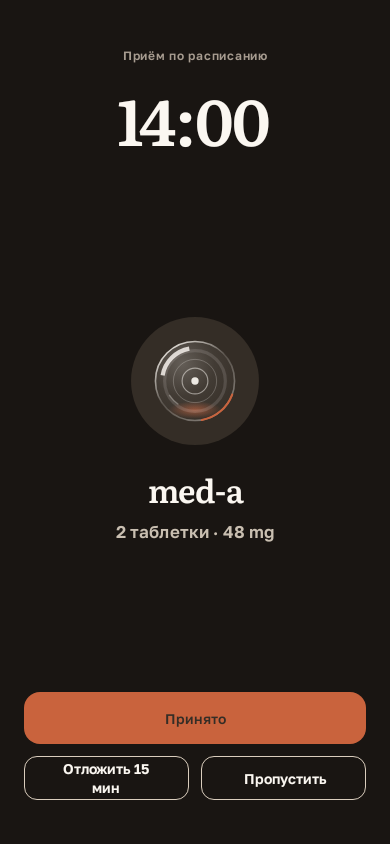
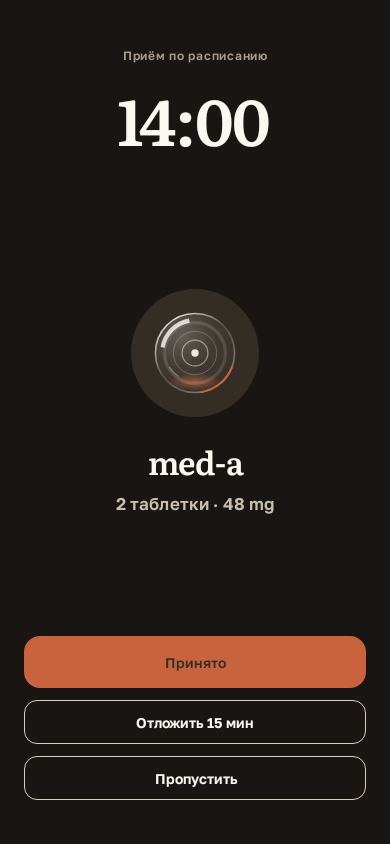
fix(SKL-61): stack the reminder actions instead of wrapping their labels

Changed region(s): [[0.0615, 0.7393, 0.9538, 0.955], [0.3077, 0.3389, 0.7077, 0.6469]]

diff --git a/feature-reminder/src/testDebug/kotlin/ru/stohastika/sklyanka/feature/reminder/ReminderScreenTest.kt b/feature-reminder/src/testDebug/kotlin/ru/stohastika/sklyanka/feature/reminder/ReminderScreenTest.kt
@@ -1,5 +1,7 @@
 package ru.stohastika.sklyanka.feature.reminder
 
+import androidx.compose.runtime.CompositionLocalProvider
+import androidx.compose.ui.platform.LocalDensity
 import androidx.compose.ui.test.assertCountEquals
 import androidx.compose.ui.test.assertIsDisplayed
 import androidx.compose.ui.test.junit4.createComposeRule
@@ -7,8 +9,10 @@ import androidx.compose.ui.test.onAllNodesWithTag
 import androidx.compose.ui.test.onNodeWithTag
 import androidx.compose.ui.test.onNodeWithText
 import androidx.compose.ui.test.performClick
+import androidx.compose.ui.unit.Density
 import androidx.test.ext.junit.runners.AndroidJUnit4
 import org.junit.Assert.assertEquals
+import org.junit.Assert.assertTrue
 import org.junit.Rule
 import org.junit.Test
 import org.junit.runner.RunWith
@@ -50,19 +54,24 @@ class ReminderScreenTest {
             foreignProfileName = null,
         )
 
-    private fun show(state: ReminderUiState.Card, onSnooze: () -> Unit = {}) {
+    private fun show(state: ReminderUiState.Card, fontScale: Float = 1f, onSnooze: () -> Unit = {}) {
         compose.setContent {
-            SklyankaTheme(dark = true) {
-                ReminderScreen(
-                    state = state,
-                    actions = ReminderActions(
-                        onTaken = {},
-                        onSkipped = {},
-                        onTakenAll = {},
-                        onSkippedAll = {},
-                        onSnooze = onSnooze,
-                    ),
-                )
+            val base = LocalDensity.current
+            CompositionLocalProvider(
+                LocalDensity provides Density(density = base.density, fontScale = fontScale),
+            ) {
+                SklyankaTheme(dark = true) {
+                    ReminderScreen(
+                        state = state,
+                        actions = ReminderActions(
+                            onTaken = {},
+                            onSkipped = {},
+                            onTakenAll = {},
+                            onSkippedAll = {},
+                            onSnooze = onSnooze,
+                        ),
+                    )
+                }
             }
         }
     }
@@ -118,6 +127,53 @@ class ReminderScreenTest {
         assertEquals(1, clicks)
     }
 
+    /**
+     * Подписи действий не переносятся и не перекрываются независимо от раскладки:
+     * помещаются рядом — стоят рядом, не помещаются — встают друг под друга.
+     *
+     * На ширине 390 dp «Отложить 15 мин» не помещается в половину строки и до задачи
+     * переносилась на две строки — это и был дефект пилота.
+     */
+    @Test
+    fun theActionsNeverWrapTheirLabelsAtTheNormalFont() {
+        show(state())
+
+        val snooze = compose.onNodeWithTag(TAG_ACTION_SNOOZE).fetchSemanticsNode().boundsInRoot
+        val skip = compose.onNodeWithTag(TAG_ACTION_SKIP).fetchSemanticsNode().boundsInRoot
+        assertTrue("подпись откладывания переносится: $snooze", snooze.height <= MAX_ONE_LINE_HEIGHT)
+        assertTrue("подпись пропуска переносится: $skip", skip.height <= MAX_ONE_LINE_HEIGHT)
+        assertTrue(
+            "кнопки перекрываются: $snooze, $skip",
+            skip.top >= snooze.bottom || skip.left >= snooze.right,
+        )
+    }
+
+    /**
+     * При крупном шрифте кнопки встают друг под друга во всю ширину, и подпись
+     * не переносится (SKL-61, §6.3). Ряд, сжатый до половин, разрывал «Отложить 15 мин».
+     */
+    @Test
+    fun atOneHundredThirtyPercentTheActionsStackInsteadOfWrapping() {
+        show(state(), fontScale = SCALE_130)
+
+        assertStackedWithoutWrappedLabels()
+    }
+
+    @Test
+    fun atTwoHundredPercentTheActionsStackInsteadOfWrapping() {
+        show(state(), fontScale = SCALE_200)
+
+        assertStackedWithoutWrappedLabels()
+    }
+
+    private fun assertStackedWithoutWrappedLabels() {
+        val snooze = compose.onNodeWithTag(TAG_ACTION_SNOOZE).fetchSemanticsNode().boundsInRoot
+        val skip = compose.onNodeWithTag(TAG_ACTION_SKIP).fetchSemanticsNode().boundsInRoot
+        assertTrue("кнопка пропуска не под откладыванием: $snooze, $skip", skip.top >= snooze.bottom)
+        assertTrue("подпись откладывания переносится: $snooze", snooze.height <= MAX_ONE_LINE_HEIGHT)
+        assertTrue("подпись пропуска переносится: $skip", skip.height <= MAX_ONE_LINE_HEIGHT)
+    }
+
     @Test
     fun twoIntakesOnOneTimeAreShownAsOneCardWithTwoRows() {
         show(state(rows = listOf(row(), row(id = "intake-2", name = "Витамин D3"))))
@@ -131,5 +187,11 @@ class ReminderScreenTest {
 
         /** Плашки часов на экране нет: тега тоже нет ни в одном компоненте (`ADR-0009`). */
         const val TAG_WATCH_CHIP = "reminder_watch_chip"
+
+        const val SCALE_130 = 1.3f
+        const val SCALE_200 = 2.0f
+
+        /** Кнопка с подписью в одну строку: вдвое выше минимальной цели нажатия не бывает. */
+        const val MAX_ONE_LINE_HEIGHT = 88f
     }
 }

diff --git a/core-ui/src/main/kotlin/ru/stohastika/sklyanka/ui/component/StackingLayouts.kt b/core-ui/src/main/kotlin/ru/stohastika/sklyanka/ui/component/StackingLayouts.kt
@@ -158,6 +158,71 @@ internal fun StackingButtons(
 }
 
 /**
+ * Пара равных кнопок, встающая в столбец, когда подписи перестают помещаться
+ * в равные половины (§6.3).
+ *
+ * Во встроенном виде доли равны — как `weight(1f)` в макете напоминания
+ * (`design/screens/Reminder.dc.html`, `flex-grow: 1`). Как только полной подписи
+ * кнопки перестаёт хватать половины строки, кнопки встают друг под друга во всю
+ * ширину: подпись не переносится и не рвётся.
+ *
+ * Порог считается по полной ширине подписи, а не по самому длинному слову: подпись,
+ * разложенная на две строки, человеком читается как поломка кнопки — ровно это
+ * и увидел пилот («Отложить 15 мин» на двух строках, SKL-61).
+ */
+@Composable
+fun StackingEqualButtons(
+    first: @Composable () -> Unit,
+    second: @Composable () -> Unit,
+    gap: Dp,
+    modifier: Modifier = Modifier,
+) {
+    Layout(
+        contents = listOf(first, second),
+        modifier = modifier.fillMaxWidth(),
+    ) { (firstMeasurables, secondMeasurables), constraints ->
+        val gapPx = gap.roundToPx()
+        val firstMeasurable = firstMeasurables.first()
+        val secondMeasurable = secondMeasurables.first()
+        // Полная ширина подписи без измерения: `measure()` у Measurable вызывается
+        // ровно один раз — при окончательной укладке ниже.
+        val firstFull = firstMeasurable.maxIntrinsicWidth(0)
+        val secondFull = secondMeasurable.maxIntrinsicWidth(0)
+        val available = if (constraints.hasBoundedWidth) {
+            constraints.maxWidth
+        } else {
+            firstFull + gapPx + secondFull
+        }
+        val stacked = maxOf(firstFull, secondFull) * 2 + gapPx > available
+        val share = ((available - gapPx) / 2).coerceAtLeast(0)
+
+        val firstPlaceable: Placeable
+        val secondPlaceable: Placeable
+        if (stacked) {
+            firstPlaceable = firstMeasurable.measure(Constraints.fixedWidth(available))
+            secondPlaceable = secondMeasurable.measure(Constraints.fixedWidth(available))
+        } else {
+            firstPlaceable = firstMeasurable.measure(Constraints.fixedWidth(share))
+            secondPlaceable = secondMeasurable.measure(Constraints.fixedWidth(share))
+        }
+
+        val height = if (stacked) {
+            firstPlaceable.height + gapPx + secondPlaceable.height
+        } else {
+            maxOf(firstPlaceable.height, secondPlaceable.height)
+        }
+        layout(available, height) {
+            firstPlaceable.place(0, 0)
+            if (stacked) {
+                secondPlaceable.place(0, firstPlaceable.height + gapPx)
+            } else {
+                secondPlaceable.place(firstPlaceable.width + gapPx, 0)
+            }
+        }
+    }
+}
+
+/**
  * Ширина самого длинного слова содержимого.
  *
  * У текста минимальная внутренняя ширина — это ширина, ниже которой строка перестаёт

diff --git a/feature-reminder/src/main/kotlin/ru/stohastika/sklyanka/feature/reminder/ReminderScreen.kt b/feature-reminder/src/main/kotlin/ru/stohastika/sklyanka/feature/reminder/ReminderScreen.kt
@@ -21,6 +21,7 @@ import androidx.compose.ui.text.style.TextAlign
 import ru.stohastika.sklyanka.ui.component.PrimaryButton
 import ru.stohastika.sklyanka.ui.component.SecondaryButton
 import ru.stohastika.sklyanka.ui.component.SklyankaMark
+import ru.stohastika.sklyanka.ui.component.StackingEqualButtons
 import ru.stohastika.sklyanka.ui.theme.SklyankaTheme
 import ru.stohastika.sklyanka.ui.token.SklyankaShapes
 import ru.stohastika.sklyanka.ui.token.SklyankaSizes
@@ -212,22 +213,25 @@ private fun Actions(state: ReminderUiState.Card, actions: ReminderActions) {
                 .fillMaxWidth()
                 .testTag(TAG_ACTION_TAKEN),
         )
-        Row(horizontalArrangement = Arrangement.spacedBy(SklyankaSpacing.Medium)) {
-            SecondaryButton(
-                text = snoozeLabel(state.snoozeMinutes),
-                onClick = actions.onSnooze,
-                modifier = Modifier
-                    .weight(1f)
-                    .testTag(TAG_ACTION_SNOOZE),
-            )
-            SecondaryButton(
-                text = stringResource(ru.stohastika.sklyanka.ui.R.string.action_skip),
-                onClick = actions.onSkippedAll,
-                modifier = Modifier
-                    .weight(1f)
-                    .testTag(TAG_ACTION_SKIP),
-            )
-        }
+        // При крупном шрифте кнопки встают друг под друга во всю ширину: сжатые
+        // до половин, они переносили «Отложить 15 мин» на вторую строку (§6.3, SKL-61).
+        StackingEqualButtons(
+            first = {
+                SecondaryButton(
+                    text = snoozeLabel(state.snoozeMinutes),
+                    onClick = actions.onSnooze,
+                    modifier = Modifier.testTag(TAG_ACTION_SNOOZE),
+                )
+            },
+            second = {
+                SecondaryButton(
+                    text = stringResource(ru.stohastika.sklyanka.ui.R.string.action_skip),
+                    onClick = actions.onSkippedAll,
+                    modifier = Modifier.testTag(TAG_ACTION_SKIP),
+                )
+            },
+            gap = SklyankaSpacing.Medium,
+        )
     }
 }
 
